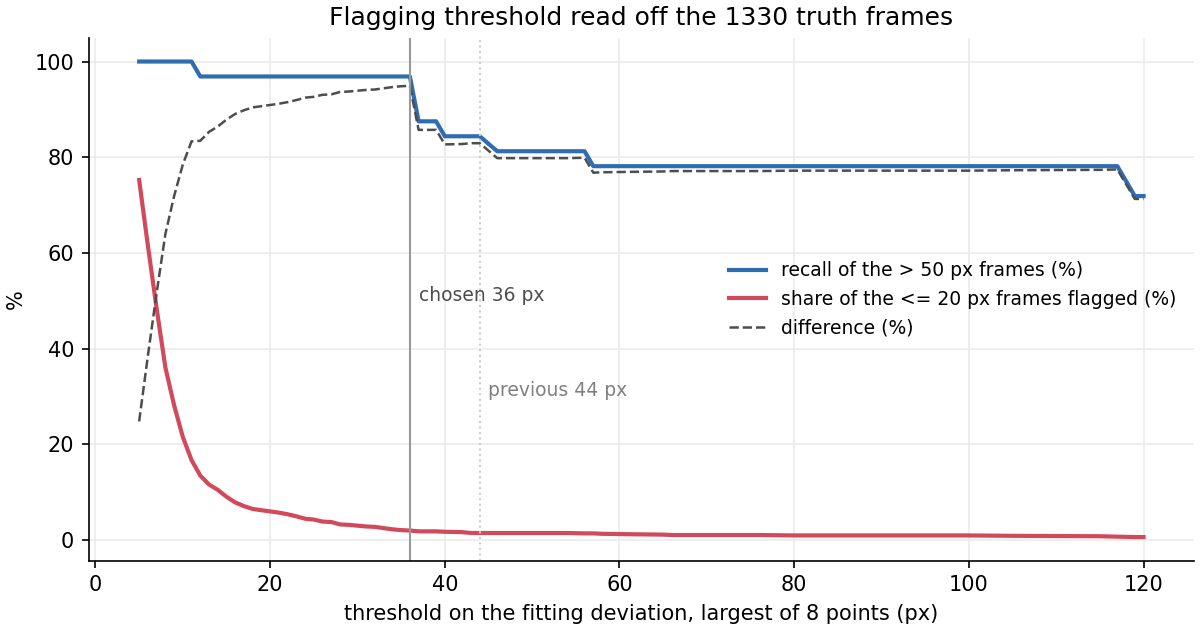
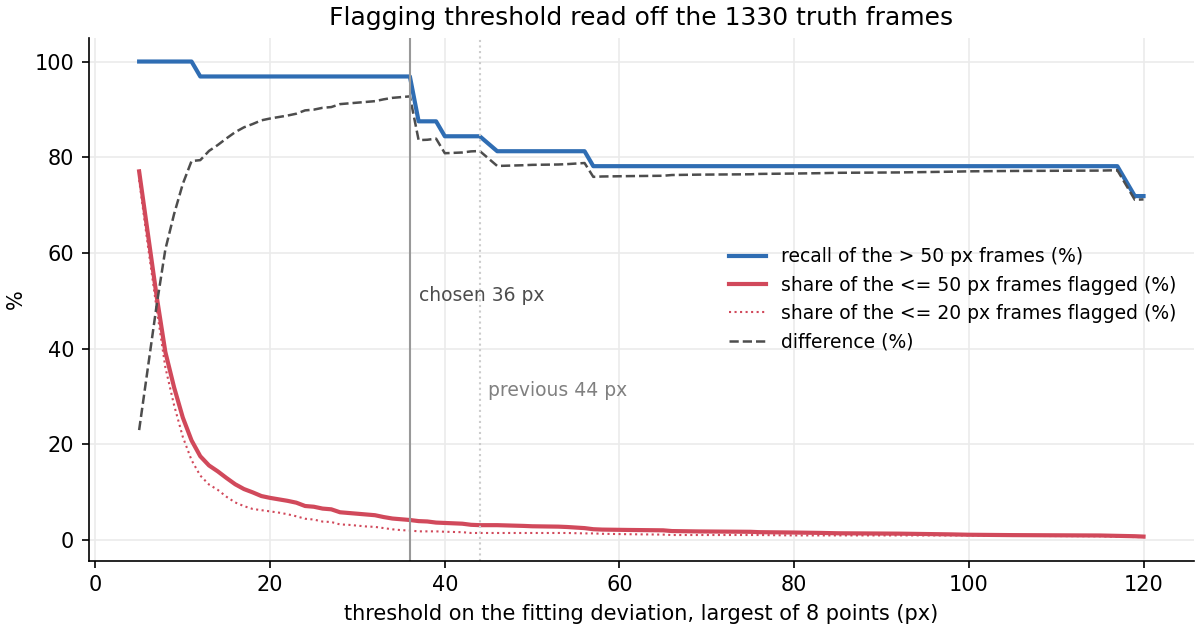
Threshold: false flags counted among all frames <= 50 px (the good frames at this tier); choice unchanged at 36 px; README tables at the 50-px tier

diff --git a/v2_new_pupil_top_video_scaling/scripts/fit_threshold.py b/v2_new_pupil_top_video_scaling/scripts/fit_threshold.py
@@ -10,7 +10,8 @@ quantile of the score on the truth frames (44 px), a budget of frames to flag wi
 
 Here the threshold is read off the frames that must be found: the truth frames with frame RMSE > 50 px (32 of 1330).
 For every candidate threshold t: recall = share of the > 50 px frames with score > t; false share = share of the frames
-<= 20 px with score > t; the 20-50 px frames are neither target nor clean and are only reported. Chosen t = the one that
+<= 50 px with score > t (user, 10-30: at the 50-px tier every frame at or below 50 px is a good frame, so flagging it is a
+false flag; the share among the <= 20 px frames is reported alongside). Chosen t = the one that
 maximises recall - false share (the usual ROC optimum, no free constant). Leave-one-video-out: the same rule on the other
 18 videos, applied to the held-out video, to see whether the pooled choice holds up.
 
@@ -28,19 +29,20 @@ from scale_step import HERE  # noqa: E402
 RES = HERE / "results"
 OUT = RES / "fit_threshold"
 OUT.mkdir(parents=True, exist_ok=True)
-SCORE, BIG, CLEAN = "fit_o200_max", 50.0, 20.0
+SCORE, BIG, CLEAN = "fit_o200_max", 50.0, 50.0
+TIGHT = 20.0
 
 
 def table(M, grid):
-    big, clean, mid = M[M.rmse > BIG], M[M.rmse <= CLEAN], M[(M.rmse > CLEAN) & (M.rmse <= BIG)]
+    big, clean, tight = M[M.rmse > BIG], M[M.rmse <= CLEAN], M[M.rmse <= TIGHT]
     rows = []
     for t in grid:
         rows.append({"threshold_px": t, "caught_gt50": int((big.score > t).sum()), "positives_gt50": len(big),
-                     "recall_gt50": (big.score > t).mean(), "flagged_le20": int((clean.score > t).sum()), "n_le20": len(clean),
-                     "false_share_le20": (clean.score > t).mean(), "flagged_20to50": int((mid.score > t).sum()), "n_20to50": len(mid),
-                     "flagged_share_all": (M.score > t).mean()})
+                     "recall_gt50": (big.score > t).mean(), "flagged_le50": int((clean.score > t).sum()), "n_le50": len(clean),
+                     "false_share_le50": (clean.score > t).mean(), "flagged_le20": int((tight.score > t).sum()), "n_le20": len(tight),
+                     "false_share_le20": (tight.score > t).mean(), "flagged_share_all": (M.score > t).mean()})
     T = pd.DataFrame(rows)
-    T["recall_minus_false"] = T.recall_gt50 - T.false_share_le20
+    T["recall_minus_false"] = T.recall_gt50 - T.false_share_le50
     return T
 
 
@@ -62,8 +64,8 @@ def main():
     chosen = T[T.threshold_px == thr].iloc[0].to_dict()
     old = T[T.threshold_px == 44].iloc[0].to_dict()
     pd.DataFrame([{"rule": "max(recall - false share)", **chosen}, {"rule": "95 % quantile (previous)", **old}]).round(4).to_csv(OUT / "chosen.csv", index=False)
-    print(f"chosen threshold {thr:.0f} px: catches {chosen['caught_gt50']}/{chosen['positives_gt50']} > 50 px, flags {100 * chosen['false_share_le20']:.1f} % of the <= 20 px frames, {100 * chosen['flagged_share_all']:.1f} % of all truth frames")
-    print(f"previous 44 px: catches {old['caught_gt50']}/{old['positives_gt50']}, flags {100 * old['false_share_le20']:.1f} % / {100 * old['flagged_share_all']:.1f} %")
+    print(f"chosen threshold {thr:.0f} px: catches {chosen['caught_gt50']}/{chosen['positives_gt50']} > 50 px, flags {100 * chosen['false_share_le50']:.1f} % of the <= 50 px frames ({100 * chosen['false_share_le20']:.1f} % of the <= 20 px), {100 * chosen['flagged_share_all']:.1f} % of all truth frames")
+    print(f"previous 44 px: catches {old['caught_gt50']}/{old['positives_gt50']}, flags {100 * old['false_share_le50']:.1f} % ({100 * old['false_share_le20']:.1f} %) / {100 * old['flagged_share_all']:.1f} %")
 
     rows = []
     for v in sorted(M.video.unique()):
@@ -71,12 +73,12 @@ def main():
         H = M[M.video == v]
         big, clean = H[H.rmse > BIG], H[H.rmse <= CLEAN]
         rows.append({"held_out_video": v, "threshold_from_other_18_px": tv, "positives_gt50": len(big), "caught_gt50": int((big.score > tv).sum()),
-                     "flagged_le20": int((clean.score > tv).sum()), "n_le20": len(clean), "flagged_share_all": round(float((H.score > tv).mean()), 4)})
+                     "flagged_le50": int((clean.score > tv).sum()), "n_le50": len(clean), "flagged_share_all": round(float((H.score > tv).mean()), 4)})
     Lv = pd.DataFrame(rows)
     Lv.to_csv(OUT / "lovo.csv", index=False)
     print(Lv.to_string(index=False))
     print(f"leave-one-video-out: thresholds {sorted(Lv.threshold_from_other_18_px.unique())}, caught {int(Lv.caught_gt50.sum())}/{int(Lv.positives_gt50.sum())}, "
-          f"flagged {int(Lv.flagged_le20.sum())}/{int(Lv.n_le20.sum())} of the <= 20 px frames")
+          f"flagged {int(Lv.flagged_le50.sum())}/{int(Lv.n_le50.sum())} of the <= 50 px frames")
 
     import matplotlib
     matplotlib.use("Agg")
@@ -84,7 +86,8 @@ def main():
     fig, ax = plt.subplots(figsize=(8, 4.2), constrained_layout=True)
     Tp = T[(T.threshold_px >= 5) & (T.threshold_px <= 120)]
     ax.plot(Tp.threshold_px, 100 * Tp.recall_gt50, color="#2f6db3", lw=2, label="recall of the > 50 px frames (%)")
-    ax.plot(Tp.threshold_px, 100 * Tp.false_share_le20, color="#d1495b", lw=2, label="share of the <= 20 px frames flagged (%)")
+    ax.plot(Tp.threshold_px, 100 * Tp.false_share_le50, color="#d1495b", lw=2, label="share of the <= 50 px frames flagged (%)")
+    ax.plot(Tp.threshold_px, 100 * Tp.false_share_le20, color="#d1495b", lw=1, ls=":", label="share of the <= 20 px frames flagged (%)")
     ax.plot(Tp.threshold_px, 100 * Tp.recall_minus_false, color="0.3", lw=1.2, ls="--", label="difference (%)")
     ax.axvline(thr, color="0.6", lw=1)
     ax.text(thr + 1, 50, f"chosen {thr:.0f} px", color="0.3", fontsize=9)

diff --git a/v2_new_pupil_top_video_scaling/results/flag_and_repair/README.md b/v2_new_pupil_top_video_scaling/results/flag_and_repair/README.md
@@ -23,23 +23,24 @@ prediction, distance between predicted and actual position, largest of the 8 key
 likelihood below 0.01 are treated as missing, as in the sweep.
 
 Threshold rule: over the 1330 truth frames, for every integer threshold t, recall = share of the 32 frames with error
-> 50 px whose score exceeds t, false share = share of the 1175 frames with error ≤ 20 px whose score exceeds t; the
-20–50 px frames are neither target nor clean and are only reported. Chosen t maximises recall minus false share (the
-ROC optimum; no free constant).
+> 50 px whose score exceeds t, false share = share of the 1298 frames with error ≤ 50 px whose score exceeds t (user,
+10-30: at the 50-px tier every frame at or below 50 px is a good frame, so flagging it is a false flag; the share among
+the ≤ 20 px frames is given alongside). Chosen t maximises recall minus false share (the ROC optimum; no free constant).
 
-| threshold | catches of the 32 > 50 px frames | flags among the 1175 ≤ 20 px frames | flags among all truth frames |
-|---|---|---|---|
-| **36 px (chosen)** | **31** | **2.0 %** | **6.4 %** |
-| 44 px (previous, 95 % quantile) | 27 | 1.4 % | 5.0 % |
+| threshold | catches of the 32 > 50 px frames | flags among the 1298 ≤ 50 px frames | among the 1175 ≤ 20 px | flags among all truth frames |
+|---|---|---|---|---|
+| **36 px (chosen)** | **31** | **4.2 %** | 2.0 % | **6.4 %** |
+| 44 px (previous, 95 % quantile) | 27 | 3.1 % | 1.4 % | 5.0 % |
 
 Why 36: the 32 scores, sorted, are 11 px (video 14, the frame no detector finds), then 36.3, 36.4, 36.7, 39.8 (four
 marginal video-8 frames of 50–55 px), then 45 px, then 26 frames from 56 px up to 580 px. Above 36 the four video-8
 frames are lost for a gain of 0.3 % fewer false flags; below 36 no further > 50 px frame is gained until 10 px, where a
-quarter of the good frames would be flagged.
+quarter of the good frames would be flagged. The choice is the same whether the good frames are counted as ≤ 50 px or
+≤ 20 px.
 
 Leave-one-video-out (`lovo.csv`): the same rule on the other 18 videos, applied to the held-out one. 18 of 19 folds
-choose 35–36 px; the fold that holds out video 8 chooses 117 px, because the frames between 36 and 56 px are all video
-8's. Over the 19 folds 25 of 32 frames are caught, 21 of 1175 good frames flagged. **The 36 px value therefore rests on
+choose 36 px; the fold that holds out video 8 chooses 117 px, because the frames between 36 and 56 px are all video
+8's. Over the 19 folds 25 of 32 frames are caught, 38 of 1298 good frames flagged. **The 36 px value therefore rests on
 video 8**; without it the data would say "anything between 45 and 117 px". That is a property of the truth set (one
 video holds all the marginal errors), to be said as such.
 
@@ -63,14 +64,16 @@ Both tests, same 19 videos, same threshold (`all_videos/totals.csv`, `comparison
 | … repaired to below 50 px (below 20 px) | 6 (2) | 16 (8) |
 | … flagged, not repaired | 21 | 11 |
 | … left alone: closed-eye 4, unflagged 1 | 5 | 5 |
-| ≤ 20 px frames repaired / made worse by > 5 px | 7 / 6 | 0 / 0 |
-| ≤ 20 px frames flagged / of them still flagged | 23 / 16 | 23 / 3 |
+| ≤ 50 px frames (good at this tier) flagged, of 1298 | 54 | 54 |
+| … repaired / made worse by > 5 px / pushed above 50 px | 20 / 7 / 0 | 10 / 1 / 0 |
+| … still flagged | 34 | 9 |
+| the same among the ≤ 20 px frames: repaired / made worse / still flagged | 7 / 6 / 16 | 0 / 0 / 3 |
 | whole videos: flagged / repaired / still flagged | 6.3 % / 2.2 % / 3.7 % | 6.3 % / 1.6 % / 1.1 % |
 | touched share per video, min / median / max | 0.3 / 3.7 / 17.2 % | 0.1 / 1.4 / 11.8 % |
 
 **The same criterion is the worse acceptance test, on both counts.** It repairs 6 of the 32 big errors where the
-geometry test repairs 16, and it turns 6 falsely flagged good frames into frames that are actually wrong, where the
-geometry test touches none of them (it says "the frame passes, leave it"). The frame-by-frame comparison
+geometry test repairs 16, and of the 54 good frames (≤ 50 px) that are flagged it makes 7 worse and leaves 34 flagged, where the
+geometry test makes 1 worse and leaves 9 flagged (for the rest it says "the frame passes, leave it"). The frame-by-frame comparison
 (`all_videos/truth_summary_all.csv`, per-video `truth_frames.csv`) shows why, and it is the same reason both times:
 the one-step prediction is built from the preceding frames. When the model is wrong for a stretch, the prediction
 follows the wrong trajectory, so the correct second peak lies far from it and is refused (videos 1, 2, 11: six frames
